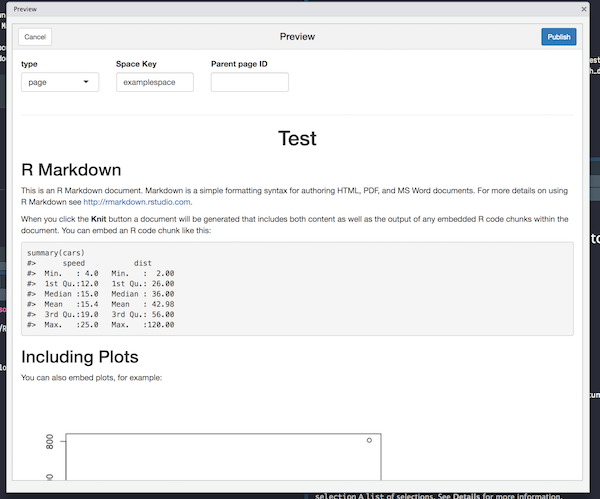
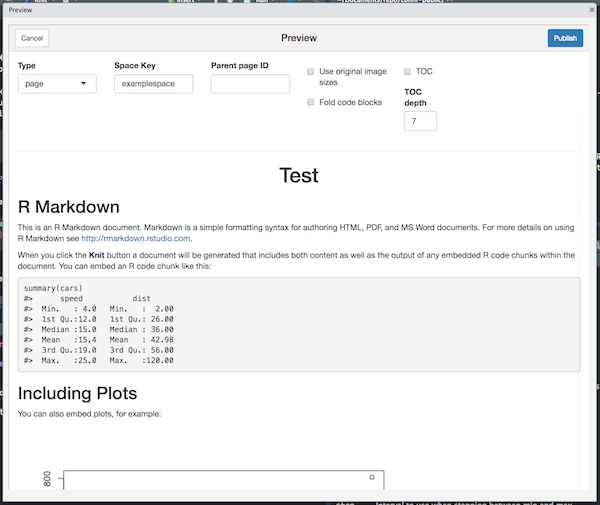
Support code folding (#83)

diff --git a/README.md b/README.md
@@ -24,8 +24,8 @@ devtools::install_github("line/conflr")
 
 conflr uses these environmental variables to access your Confluence.
 
-  - `CONFLUENCE_URL`: The base URL of your Confluence.
-    e.g. `https://confluence.example.com` (On Atlassian Cloud,
+  - `CONFLUENCE_URL`: The base URL of your Confluence. e.g.
+    `https://confluence.example.com` (On Atlassian Cloud,
     `https://<your-domain>.atlassian.net/wiki`).
   - `CONFLUENCE_USERNAME`: Your username (On Atlassian Cloud, your email
     address).
@@ -51,7 +51,8 @@ Confluence.
 
 1.  Use an RStudio Addin
 2.  Run `confl_create_post_from_Rmd()` on console
-3.  Specify `conflr::confluence_document` on the YAML front-matter
+3.  Specify `conflr::confluence_document` on the YAML
+front-matter
 
 ### RStudio Addin
 
@@ -77,6 +78,7 @@ Then, you will be asked your username and password.
   - **Parent page ID**: (optional): The ID of the parent page to the
     page.
   - **Use original image sizes**: If checked, do not resize the images.
+  - **Fold code blocks**: If checked, code blocks are folded by default.
   - **TOC**: If checked, add a Table of Contents.
   - **TOC depth**: The lowest heading level to include in the Table of
     Contents.
@@ -106,7 +108,8 @@ confl_create_post_from_Rmd("~/path/to/your.Rmd", interactive = FALSE)
 ```
 
 Note that, if you want to run this periodically, you also need to set
-`update = TRUE` to allow conflr to overwrite the existing page.
+`update = TRUE` to allow conflr to overwrite the existing
+page.
 
 ``` r
 confl_create_post_from_Rmd("~/path/to/your.Rmd", interactive = FALSE, update = TRUE)

diff --git a/NEWS.md b/NEWS.md
@@ -19,9 +19,6 @@
 * Add an option `conflr_addin_clear_password_after_success` not to cache the
   password as envvars. (#41 and #48, @Curycu).
 
-" conflr now accepts `confluence_settings` front-matter, which is useful for
-  automation (#44, @kazutan).
-
 * A new function `confl_contentbody_convert()` converts the Confluence-related
   formats by using the Confluence REST API (#58).
 
@@ -37,7 +34,7 @@
   macro tags (i.e. `<ac:...>` or `<ri:...>`) properly (#76).
 
 * Add `confluence_document()`. Now you don't need to use addin but can just
-  specify this on the front-matter.
+  specify this on the front-matter (#44, @kazutan / #80).
   
   ``` md
   ---
@@ -47,6 +44,8 @@
 	  space_key: "space1"
   ---
   ```
+
+* conflr now supports code_folding (#81).
 
 # conflr 0.0.5
 
